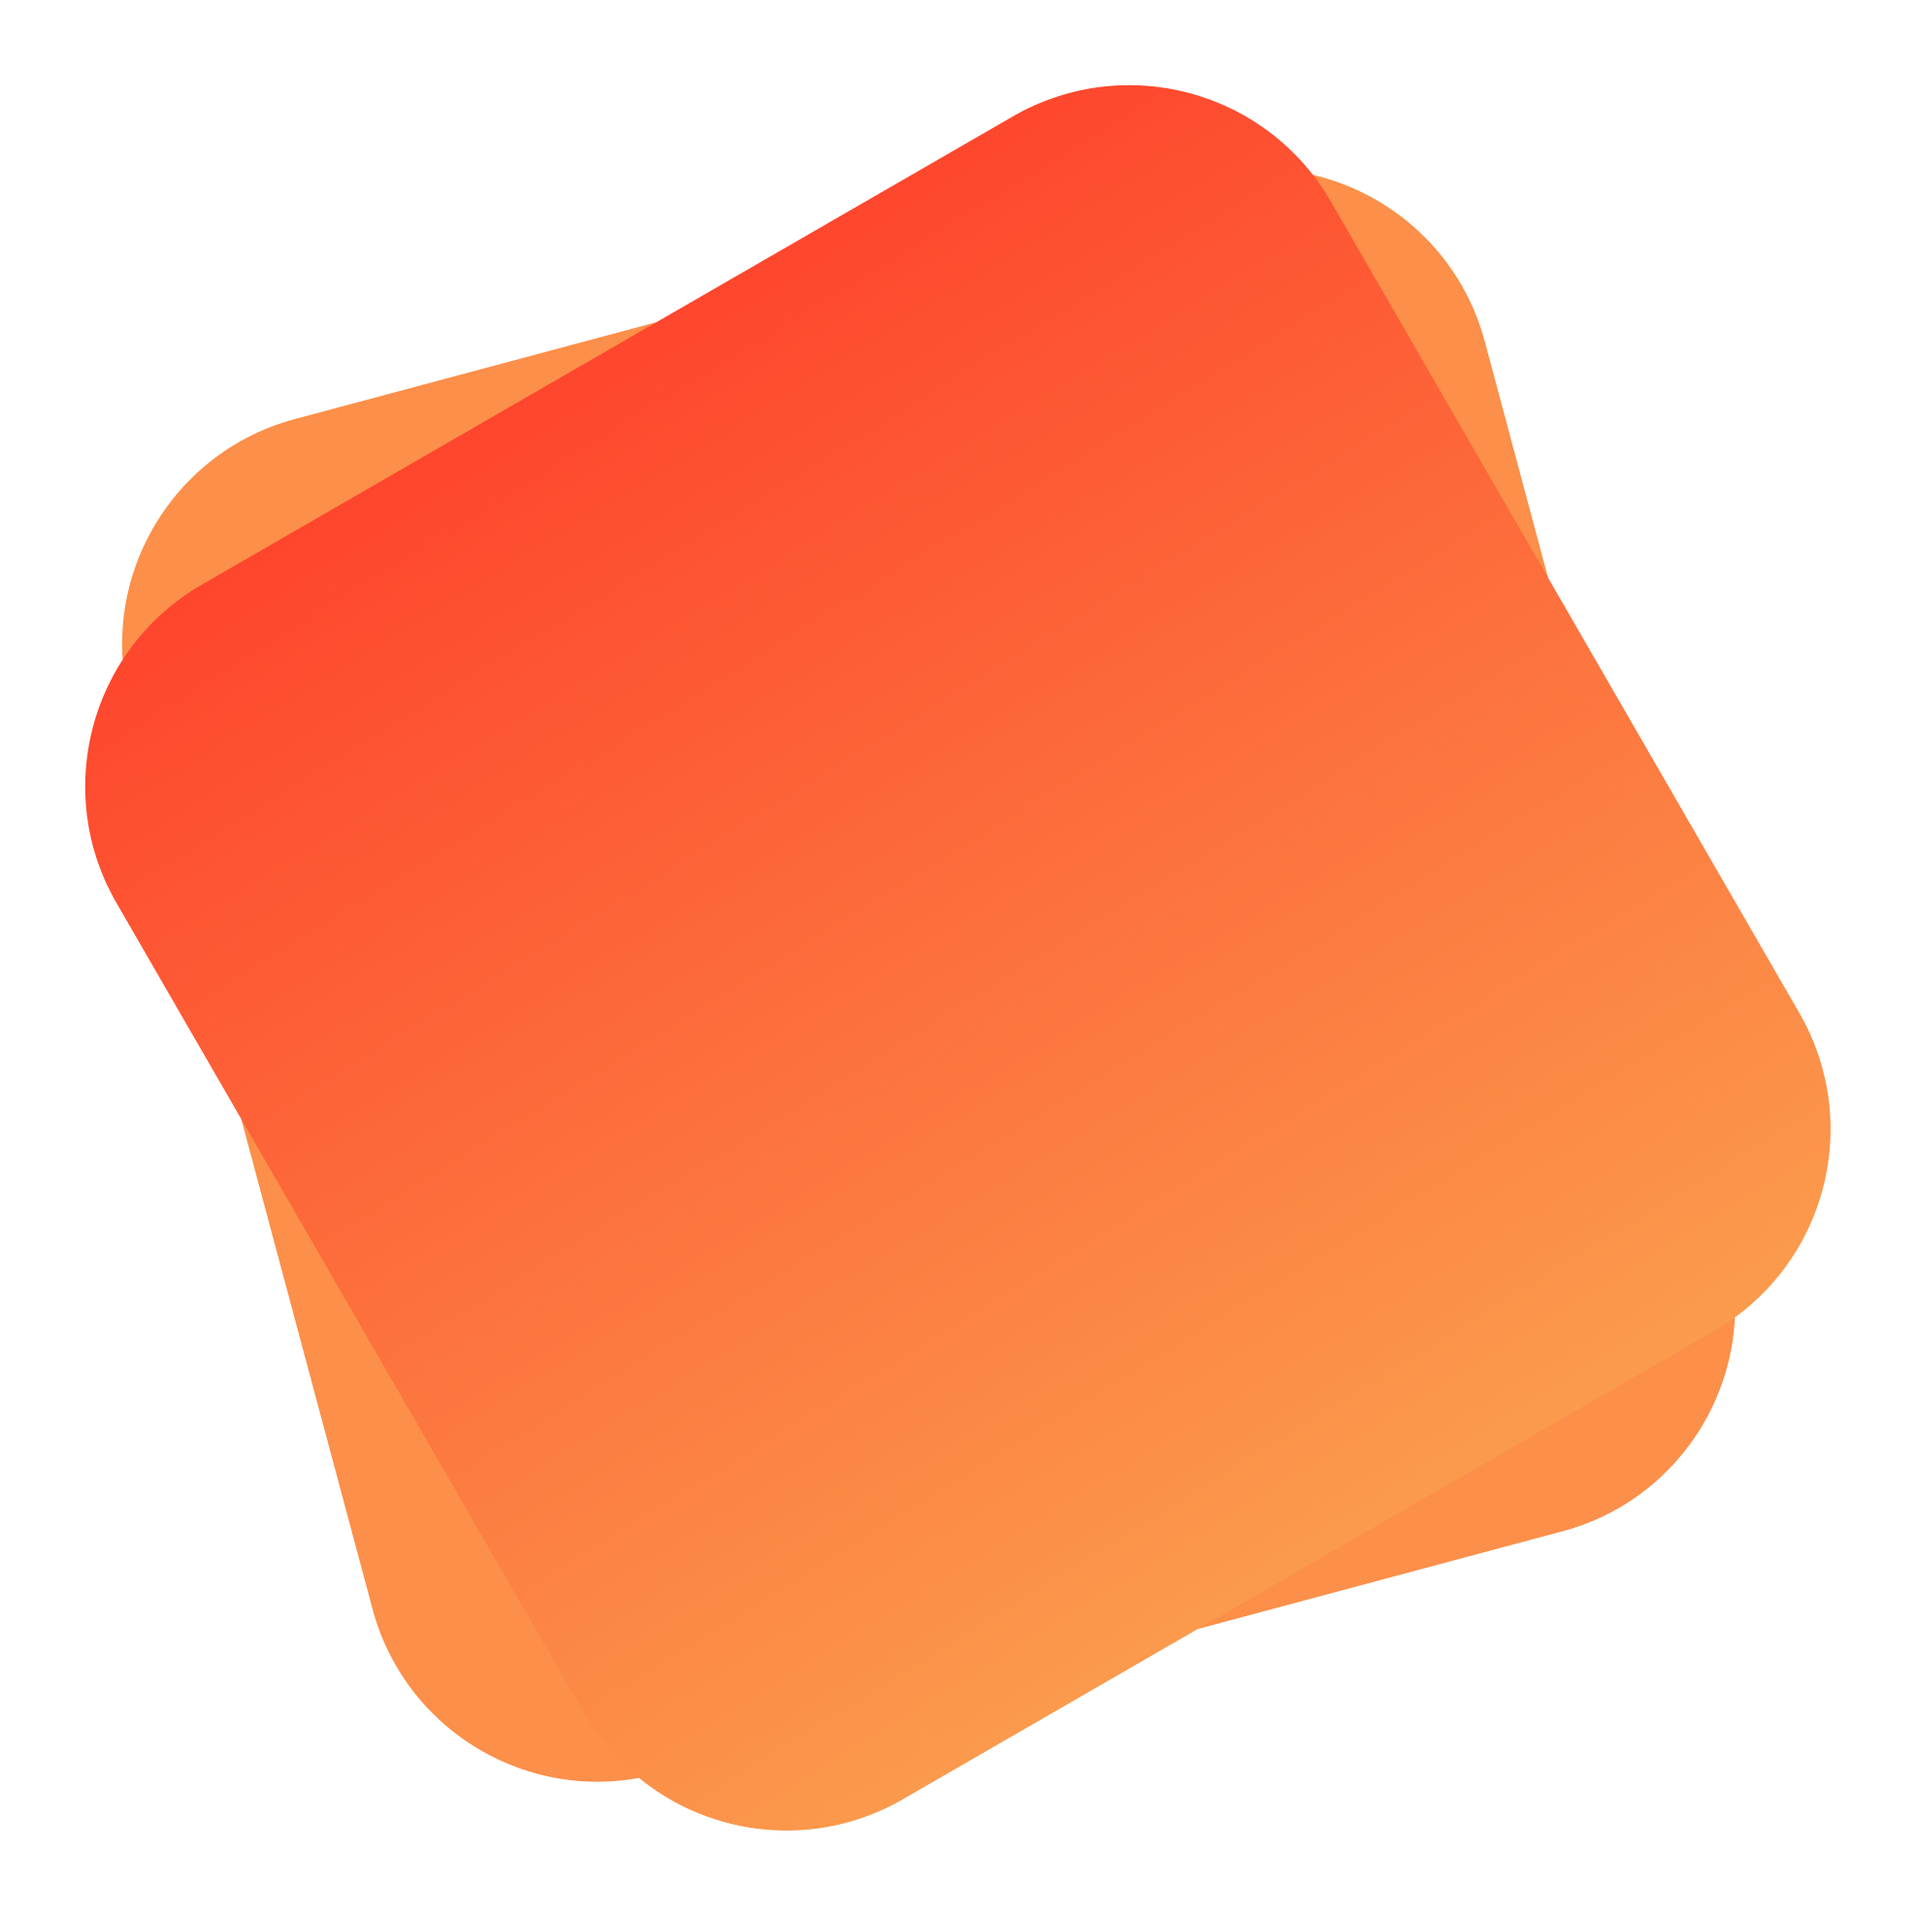
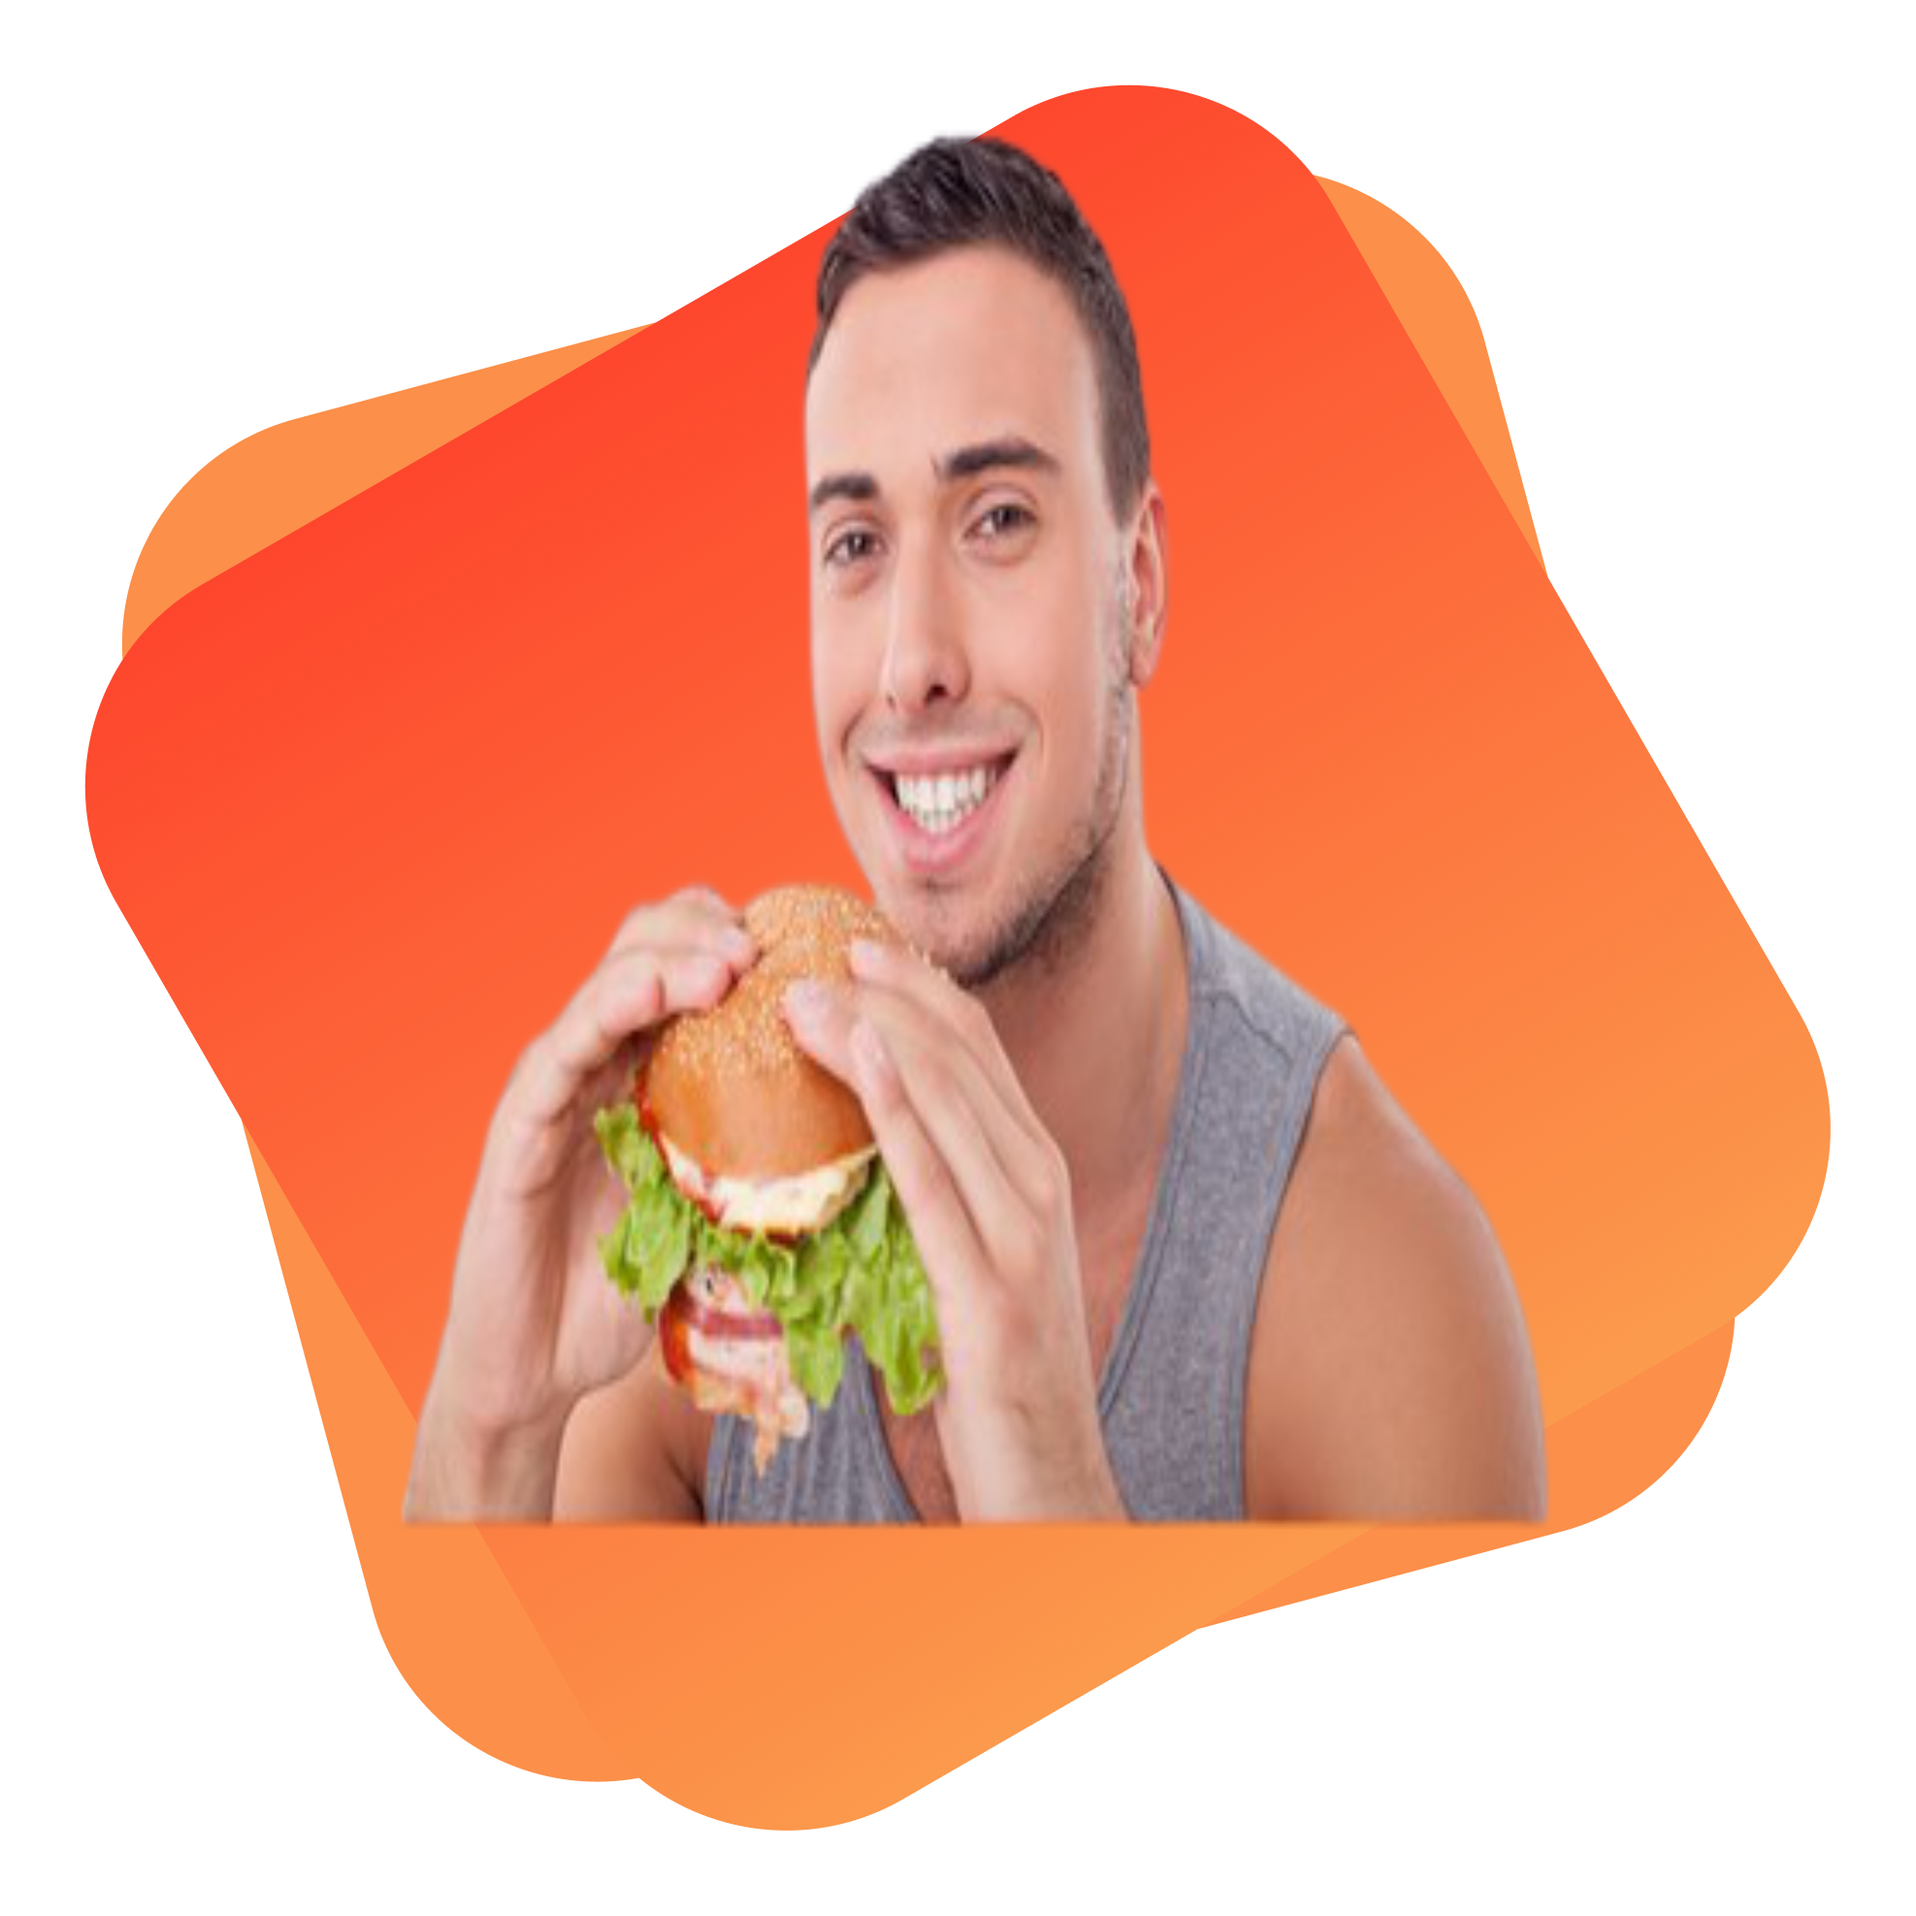
image modify

Changed region(s): [[0.1853, 0.0618, 0.8339, 0.803]]

diff --git a/index.html b/index.html
@@ -8,6 +8,15 @@
   <link rel="stylesheet" href="style.css">
 </head>
 <body>
-  
+  <section class="top-order">
+    <div class="left-div">
+      <h1><span>Skip</span>The Diet, <br>Just Eat Healthy <br>With Food Network</h1>
+      <p>Imagine you don't need a diet because we provide healthy and delicious food for you!</p>
+      <a class="custom-btn" href="#">Order Food</a>
+    </div>
+    <div class="right-div">
+      <img class="male-photo" src="images/orange.png" alt="male photo">
+    </div>
+  </section>
 </body>
 </html>

diff --git a/style.css b/style.css
@@ -1,0 +1,9 @@
+body{
+  margin: 0;
+}
+.left-div{
+  width: 50%;
+}
+.right-div{
+  width: 50%;
+}
